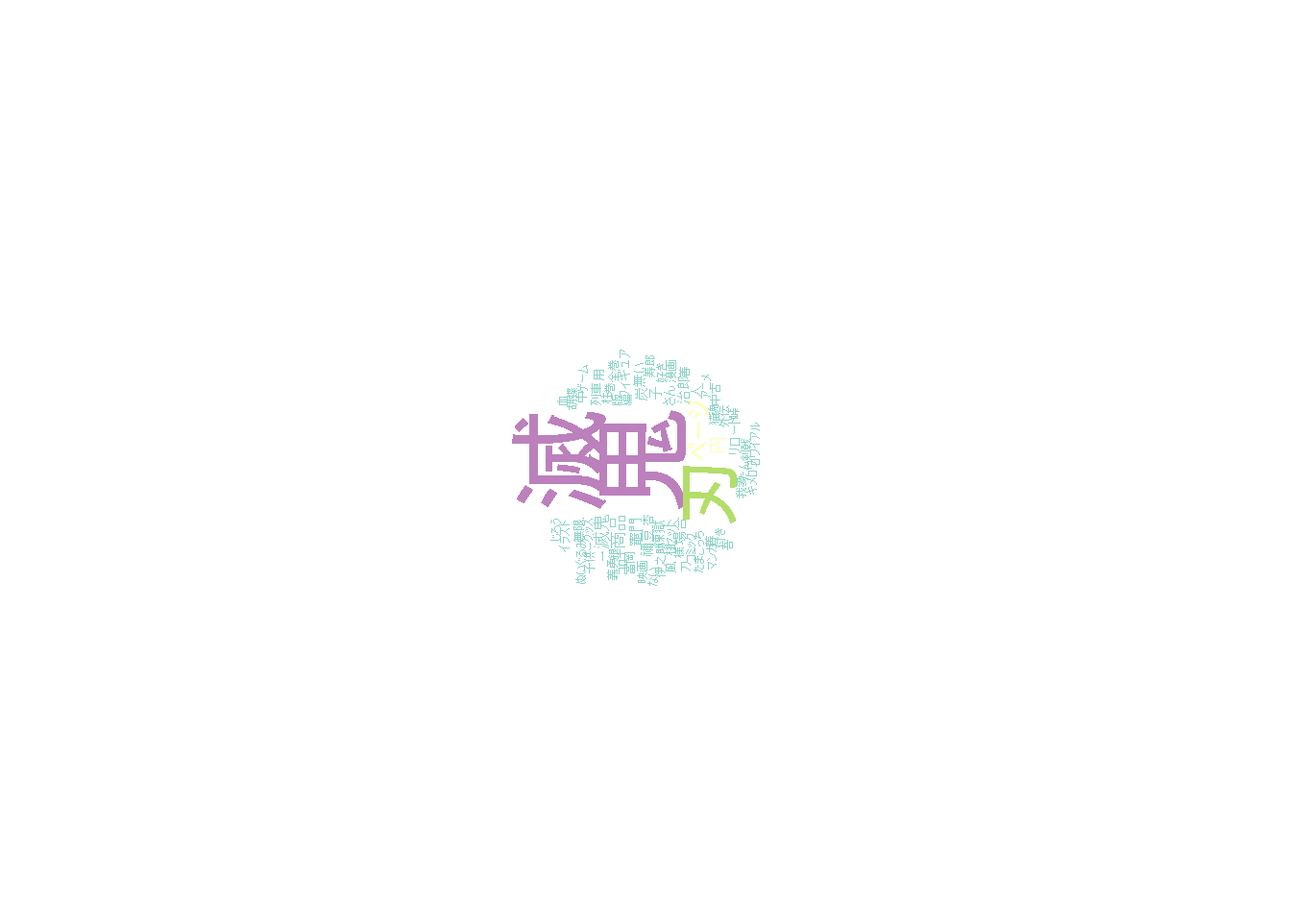
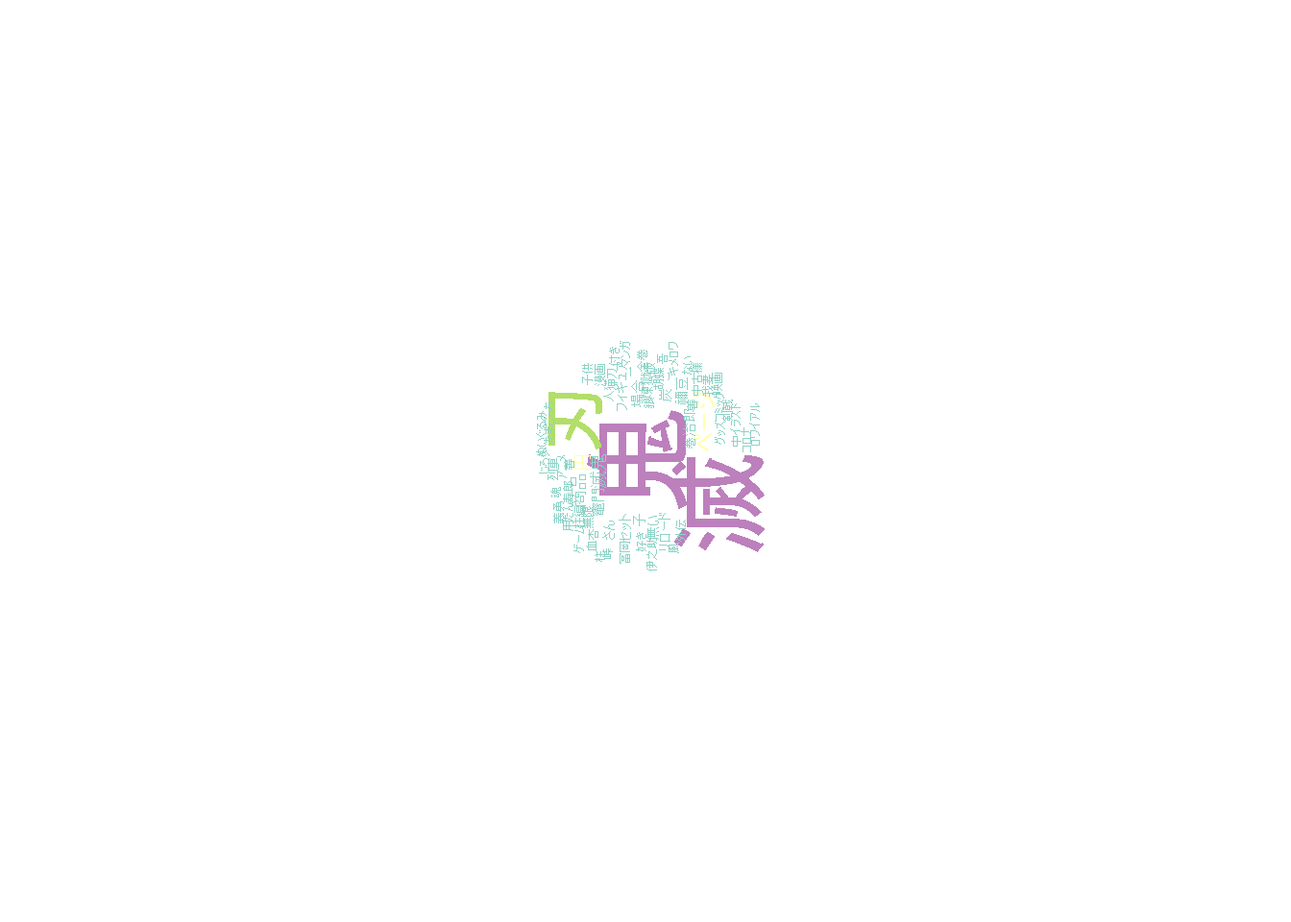
cash=TRUEに変更。dependson = TRUEのオプションも追加。

Changed region(s): [[0.4062, 0.375, 0.5938, 0.625]]

diff --git a/public/post/only-wordcloud/index.html b/public/post/only-wordcloud/index.html
@@ -18,7 +18,7 @@
 <meta itemprop="description" content="おはようございます！ 今日は、テキストデータを分析して、ワードクラウドなるものを作ろうと思います！ 本当は、Twittterからテキストデータを">
 <meta itemprop="datePublished" content="2021-01-10T00:00:00+00:00" />
 <meta itemprop="dateModified" content="2021-01-10T00:00:00+00:00" />
-<meta itemprop="wordCount" content="105239">
+<meta itemprop="wordCount" content="105263">
 
 
 
@@ -192,12 +192,22 @@ wordcloud2(data = df, size = 1, color = &quot;random-light&quot;)</code></pre>
 <div id="htmlwidget-1" style="width:672px;height:480px;" class="wordcloud2 html-widget"></div>
 <script type="application/json" data-for="htmlwidget-1">{"x":{"word":["ページ","円","商品","滅鬼","竈門","さん","子","禰豆","炭","治郎","煉獄","セット","無い","場合","リロード","フィギュア","外伝","アニメ","巻","好き","人","グッズ","列車","中","中古","無限","編","寿郎","杏","胡蝶","猫","イラスト","ー","コミック","版","一","銀","伊之助","魂","全巻","冨岡","映画","義勇","漫画","風","用","ゲーム","たまごっち","我妻","善","刀","血","じろう","たん","コロナ","善","ぬいぐるみ","ない","剣戟","柱","柱","キメロワ","マンガ","ロワイアル","吾","子供","峠","付き","様","くじ","公式","雑貨","良い","しのぶ","ちゃん","品","これ","呼","世","川","隊","不死","かわいい","ステンドグラスカードパック","友達","たち","カナ","館","黒","梱","笑","声","日輪","平","便","弥","嘴","さ","伊","求","券","好き","手","晴","番","そう","カード","キメロワ","シリーズ","マスク","済み","送料","大阪","暮らし","いい","こ","花","巻","通常","無料","面白い","ぷり","インテリア","エア","キャラ","コラボ","フォロワー","ホッケー","玄","譲","人気","製","地域","刀剣","日本","ねこ","ケース","スケール","スコティッシュフォールドアクアリウム","ニャルソック","バッチ","ビオトープ","気軽","栗","繋がり","月","個","今","私","小","少年","情報","新品","水槽","早め","特典","熱帯魚","悲鳴","万","癒","うち","す","エンスカイピースジグソーパズル","キャラクターズブック","コミュニティ","ピカジェルシュプリームギフト","下記","可","花落","楽天","劇場","月間","市","時","写真","者","沼","刀","年月","柄","本誌","無償","嶼行","カレンダー","キーホルダー","クオリティ","トップクラス","マスコット","炎","可能","絵","絵描き","缶","座","時間","呪術","神社","声優","先生","相互","誰","東京","難しい","入り","買取","不可","福岡","無惨","猗窩","２","ＴＶ","あなた","お年玉","っ子","なん","アマゾン","キモ","パズドラ","リカ","壱","炎","化","何","甘露","関西","気","月日","県","寺","主婦","収入","賞","的","点","二","日","芭内","飯塚","福袋","い","ら","アクリル","カラー","キッズ","パジャマ","ピアノ","一番","俺","画像","回","皆様","学期","顔","義勇","公","荒野","高","今日","再販","最終","三","三宮","首輪","女子大","上弦","信玄","全部","大好き","彼女","方","本日","蜜","目","お金","くん","こちら","れん","ジグソーパズル","ジャンプコミックス","チー","チョコ","バッジ","ビジネステレビスマホ","ピース","ブーム","ポップ","マシュマロ","マスクコロナミロアマゾン","メガハウス","一郎","可動","楽","完","緊急","型","経済","健康","鍵盤","抗菌","事態","種","初心者","人","性","政治","正規","息子","他","単品","弾","弾","中旬","蝶","天元","電卓","透","費","副業","文房具","毛布","璃","絆","あと","あみ","おば","がけ","すごい","そこ","のり","ぽい","みつ","やつ","キャラクター","コップ","コレクション","サイズ","ジャンプカミオジャパン","スティック","スト","ネット","バンダイ","ピアノクロスプレゼント","ピカジェルパルスオキシメータギフト","フォルダー","ブログ","ペン","ボールペン","ポイント","マグカップ","ヤマハ","ラン","悪い","位","衣装","嘘","下着","価格","夏樹","家","架空","霞","廻","絵","格安","楽譜","活性","観","玩","記事","権利","糊","江","浩","今年","祭","錆","山梨","氏","詳細","森岡","人物","水","世界","凄い","姓氏","正月","戦","祖師谷","台","著","町","店","電子","兎","動き","動画","肉","不思議","舞台","分","本","名字","恋","和","話","蟲柱","・","ー","１","４","あす","えん","お前","ぎゅぎゅっと","ご飯","すぎ","つき","とつ","どこ","のぶこ","はん","まめ","まんが","めちゃくちゃ","ゃいば","やばい","アカウント","アク","イージケース","ウェルビーイング","エクストラ","エンゲージメント","オリジナル","カーペット","ガチャガチャ","ガム","ガラスケース","キャッチャー","クリスマス","グッズケーススクエアガラスケース","グルマンディーズ","コス","コチラ","コピ","サンライズ","シーズン","シール","スクエア","スタンプ","ソロス","タイトル","タオル","タケ","タトゥー","デスク","ドール","バッグ","ビーズ","ファイル","プペル","ベージュ","ベスト","ペン","ポーチ","ポケット","マット","ミニ","ラスト","ラッピング","ランキング","ランダム","レ","レイヤー","ワクワクエンゲージメント","ワッペン","ワン","ワンオンワンチーム","以降","偉い","一族","宇髄","羽織","縁","沖縄","価値","可愛い","画集","漢字","嬉しい","幾星霜","期","鬼取","巨人","興","曲","巾着","金額","熊本","軍団","兄弟","景品","原作","現在","幸せ","香り","今回","最近","最後","最高","最初","細かい","作品","三浦","山","次郎","自己","自分","七","手作り","手段","収","秋葉原","集英社","春","女の子","招福","笑顔","障害","食","食","食堂","慎重","神様","人材","人事","世代","性格","晴","生駒","聖地","節分","雪だるま","絶対","前","素晴らしい","装","対象","大学","大判","達","誕祭","男","着物","仲間","丁目","帳","塚","鉄","桃太郎","特製","年","馬","箱","箸","美しい","筆記用具","富岡","部","部屋","風","服","文庫","壁紙","放題","無残","娘","名刺","明","面","模様","目","弥生","矢沢","里","恋木","郎","話題","毀滅","綺麗","鐵","〇","ーコロナマルハン","３","６","あいつ","あし","あと","いっぱい","うまい","おじさん","おばさん","おもちゃ","お菓子","お正月","お茶","かん","がち","くい","こい","ここ","こっち","さつまいも","しあわせ","すか","ぜん","その他","たくさん","だれ","ちゃん","っぽい","つり","つる","でっかい","とんぼ","ねむたい","はる","ひも","ぷ","まいこ","みんな","め","めい","もち","ゆらぎ","ょうしのぶきめつのやいば","ょうじゅろう","よい","よそ","アート","アオイ","アキバホビーフィギュアプライズ","アナ","アナスイコラボ","アナログ","イエロー","イケメン","ウエハース","オタ","オリ","カス","カトラリー","カナエ","カフェ","キレイ","クラ","クラスターキャンペーン","グッズアニメバッグタイプ","グッズミニショルダーバッグ","グループ","グルマンディーズバンダイ","グルメ","ケシ","コースター","コーデ","コスプレグッズラテックスマスク","コピック","コメダ","コラ","コロ","ザファイナル","シューズ","シュリンク","ショルダー","ジョージ","スイ","スター","スタイリング","スタンダード","スラムダンク","スラムダンク","セ","セール","ダメ","チェキフジフイルム","チケット","チャンス","ツイート","テレビ","データ","ディフォルメシールウエハース","デコステッカーガム","デジタル","デフォルメ","トランプ","トレーディング","トレンド","ニュース","ネタ","ノート","ハーフハーフケット","ハンコ","ハンター","バランス","パイオニア","パジャマセットトートバッグ","パズル","パネル","パワハラ","ヒノカミ","ビーフ","ファン","フラワー","ブック","ブルー","プレ","ホント","ボール","ポケモン","ポシェット","ポスト","ポッケ","マグカップ・","マスクイノシシコスプレ","マスコットキャラクター","マン","ミニリングノート","メイン","メディア","メンバー","モン","モンスターハンターワールド","ラガマフィン","ラバー","レイ","レビューアニプレックス","ロースト","ワイ","ワックス","ワンピース","Д","о","悪鬼","綾","以前","位","医療","井岡","一気","引鬼","永久","猿之助","鉛筆","横","億","屋敷","音","下","下旬","下野","家","家庭","課題","我々","牙","回","皆さん","絵かき","鎧","楽しい","掛","完全","感","感じ","感情","観","顔","季節","輝","亀治郎","吃音","久しぶり","休み","去年","虚無","興味","玉","九州","苦手","空知","郡山","兄","蛍","結果","剣道","後","向け","好評","昂","鋼","高校","号外","黒板","込み","今更","魂","歳","細胞","作","昨日","冊","三浦春馬松坂桃李宮地真緒吉岡里帆白石麻衣山田涼介","残り","子ども","市松","死","紙工","時","次","次","式","蛇","手芸","種","趣味","出身","春日部","女性","小池","小道具","少ない","少女","松山","消し","消しゴム","焼肉","症","詳しい","賞","上","場面","譲り","新型","新大阪","新聞","森川","真菰","人様","水田","性別","石田","戦い","素顔","想い","早い","側","其","村","袋","隊","代目","大きい","大切","大幅","卓上","男の子","地","猪","朝","調子","痛み","定価","敵","天満宮","店","伝説","電車","奴","刀鍛冶","島","湯のみ","当たり","藤","豆","同僚","特","内","内山","弐","匂い","日","日めくり","日向","入れ","熱","年","年金","年末","年末年始","納豆","波","派","派手","被り物","美味しい","筆箱","不潔","布","怖い","武","服","福","物","物","文","別","変","保育園","北海道","北斗","磨","妹","枚","毎日","毎日新聞","未読","無限","無双","名","問題","友","幼稚園","欲しい","卵","裏側","立木","流れ","鱗","礼儀","礼節","零","歴史","烈火","連休","狼","枠","枠","ﾟ","ﾟﾟ","簪","絆創膏","譚","1","e","x","％","７","ぁぁ","ぁぁぁ","ぁふなちゃんがぽんぽんしたん","あたり","あて","あら","あら","あらし","あん","いかが","いっしょ","いつか","うそ","うち","ぇもんと","ぉ","ぉるめ","おしゃれ","おでこ","おと","おもろい","お下げ","お家","お父さん","かぎ","かじ","かっこいい","かね","かま","かまぼこ","かも","かるた","がま口","きのこ","きょう","きり","ぎゆしのは","くら","こども","ごろ","ご存知","ご覧","さま","さんま","しっぽ","しら","しん","じゅう","すそ","すべて","そ","そこら","そちら","その後","それ","たい","たかい","たけ","ただ","たま","ちゃ","ちゃめ","ちょう","ちょこ","つながり","つま","つまんない","つよい","つらい","てこ","てぶくろ","でかい","とも","とんでも","どちら","どっち","どれ","なお","ならでは","なるい","ぬい","はし","ばん","ぱしゃこれ","ぱたぱた","ぱぴくとの","ひざ掛け","ひとり","ひろい","びちょびちょになった","ぴえん","ふく","ぷちざぶ","ぷよぷよ","ぷよぷよにれんごくさん","ぷりすとぷり","ほうび","ほんと","まき","まばら","むずかしい","むつ","めん","もろ","ゃないなっしか","やりがい","ゅう","ゅごい","ゆう","ょうじゅろうきめつのやいば","ょうじろうぬいぐるみ","よっぽど","よわい","りえ","りか","りんご","ろ","ろう","わけ","わたし","ア","アイツ","アイテム","アイフォンアイフォンカバー","アイフォンカバー","アイマス","アイマスク","アイロン","アオリサーチ","アカ","アキバホビーフィギュア","アクア","アクア","アクアビーズ","アクアビーズ","アクセサリー","アクリルキーホルダーコレクション","アクリルキーホルダーストラップキーチャーム","アクリルフィギュアコレクション","アツ","アナログコピック","アニ","アニメーション","アプリ","アプリ","アプリゲーム","アンケート","イケボエロボ","イチロー","イメージアクセ","イメージコーデ","ウイルス","エーペックスレジェンズ","エピ","エフトイズコンフェクト","エポック社","エマ","エロ","エヴァ","エヴァ","オックスプリント","オディ","オフ","オフィシャル","オフライン","オレ","オレンジ","オンナ","オンライン","カードチョコスナック","カップリング","カツオ","カナヲエクストラ","カパ","カフェオレ","カプセルラバーマスコット","カラオケ","カラコン","カラコンコメダ","カラス","カレー","ガチ","ガラス","ガン","キー","キッズ","キッズムービー","キッズモデル","キツネ","キバ","キメツノヤイバ","キャスト","キャラクターコレクションギフトプレゼントサンライズ","キャラクターパズルアニメパターン","キャラタッチグローブ","キャンディグミシール","キュー","キューブ","キューポス","キューポスケット","キュンキュン","キルティング","キング","ギフトバレンタイン","クーポン","クイズ","クチャ","クッション","クラスターキャンペーン","クリエイター","クリップ","クルトガ","クレーン","クレクレクレクレ","クレクレパズドラ","グッズケースカバー","グッズチョコアソート","グッズデスクマット","グッズペンマスコット","グリーン","グリグラ","グルマンディーズ","ケーススクエアガラスケース","ゲーセン","ゲームクリエイターパズドラパズドラ","ゲトー","コ","コー","コードギアス","コーナー","コインケース","コスプレ","コスプレコスプレ","コスメポーチ","コットン","コネクター","コマ","コマコレマグネットコレクション","コミックス","コミックス","コミュニケーション","コラボシート","コラボメニュー","コレクションフルコンプ","コレクターズカード","コント","コンプ","ゴールド","サーフ","サァ","サイト","サッカー","サッカーキメロワ","サナ","サビ","サンクス","サンプル","ザザ","シ","シキタリ","システム","シネマズ","シャープ","シャツ","シャツシャツトリニティ","シャモジ","シュプリーム","シュプリームアマゾン","ショウワノート","ショップ","ショルダーバッグ","ジェット","ジグソーパズルパネルフレーム","ジグソーパズルフレームピース","ジツエン","ジツエン","ジャージ","ジャケット","ジャパネット","ジャンプカミオジャパンギフト","ジャンプケイカンパニーウォーマー","ジャンプケイカンパニーティッシュケース","ジャンプフェスタグッズ","ジャンボ","ジン","スーパー","スイッチ・パブリッシング","スケジュール","スタ","スタッフ","ステ","ステーキ","ステイホーム","ステッカー","ストリーム","ストレート","ストロー","スパッ","スピーカー","スペシャル","スポーツカー","スポーツカーアクア","スマ","スマート","スマホ","スマホニュース","スライドシザー","スルー","セットフルコンプ","セットプライズキャッチャークレーンゲームレジャラン","セラフ","セリフ","ソニー","ソフト","ソフビィ","ソロ","タイ","タイム","タグ","タッチペンボールペン","ダークローズウッド","ダイニング","ダイレイ","ダブルチャンスキャンペーン","ダム","チェキ","チェキクリスマスプレゼント","チェンソーマン","チャット","チャラ","チャンネル","チョウチョ","チョモギヴン","ツイステ","ツイステクリアビジュアルポスター","ツイステハニプレ","ツイッター","ツイフィ","ツイン","テール","テンション","テンプ","デカ","デコプチカード","デザイングラフアートデザインクリアボトル","トーク","トコアクリルキーホルダー","トコアクリルキーホルダーカラビナベルハウス","トップ","トピア","トレ","トレーニングマラソンランニング","ドンジャラ","ナムコ","ニーアオートマタ","ネー","ネイルチップ","ネコポス","ネバーランド","ネバエヴァ","ノイタミナ","ノベライズ","ハイ","ハロウィン","ハンド","ハンドジェル","バイト","バイブレーションスターズ","バグ","バケツ","バス","バスケ","バッジ・ピンズ","バッジ・ピンズ","バナ","バラエティー","バレ","バンダナ","パーカー","パープルネコポス","パジャキャラ","パック","パッケージ","パロディ","パロディー","ヒーター","ヒーローキッズ","ヒトカゲ・パチリス","ヒロ","ヒロアカクリアカード","ヒロアカコラボ","ビーズアンドパーツアクセサリーパーツ","ビジュアル","ビナ","ピアス","ピン","ファイナル","ファッ","ファッション","ファッションデザイナー","ファニーナイツ","フォトナ","フォン","フラグ","フリュー","フリュー","フレ","フレーム","フロー","フロア","ブザー","ブチ","ブルーヘアワックス","ブロマイド","ブロンズ","プチラマシリーズ","プライズ","プラカップクリアコップタンブラー","プレスト","プレミア","プレミアム","プロ","プロジェクト","プロローグ","ヘア","ヘッド","ベース","ベテラン","ペ","ペンシャープペンボールペン","ホ","ボーカル","ボイス","ボイトレ","ポーチペンケース","ポーチペンシルケース","ポケモン","マウス","マウスパッドパソコン","マウスマウスパッドキーボードパッド","マキア","マスクコスメポーチ","マスクコロナミロ","マスクポーチフラットポーチ","マスクマスクケース","マトリョーシカピンポイント","マナー","マニア","マニアック","マフラー","ママ","マルチクリアケースサイズ","マンダロリアン","ミナ","ミナサナグッズ","ミニストップ","ミニポケットティシュ","ミラー","ムズ","メイド","メガ","メガネ","メタル","メンタル","モデル","モノクロームマグ","モバイル","モヤモヤ","モンスター","ヤバ","ユニット","ユル","ヨナテニプリ","ラーメン","ライダー","ライティング","ライビュ","ライブドアブロガー","ライブビューイング","ライン","ラジオ","ラスカル","ラバ","ラブホ","ランダムスマホリング","ランチ","リーダー","リツイート","リバーシブル","リプ","リベンジ","ルームペンケース","ルシソロ","レイ","レイヤーコスプレ","レジングリーン","レッスン","レッド","ローソン","ローランド","ローン","ロドリゲス","ロバート","ロワイアルヒノカミ","ワイドサイズワイドデスクマット","ワイヤレス","ワイン","ヱヴァンゲリヲン","ヲ","ン","ヴァイオレット・エヴァーガーデン","愛","愛情","愛知","綾","暗い","闇","偉大","易い","異種","違","医者","井上","育","一昨日","一瞬","一品","一郎黒死牟鬼滅","逸","稲毛","印象","引","引き","右","宇随","宇髄","宇副","影","影山","瑛","英","駅","駅前","円滑","円筒","甥","岡","屋","穏便","音","音楽","下","下手人","下敷き","何事","夏","科学","暇","果て","歌","歌","歌舞伎","花江","華","課長","過去","我","画","画伯","画面","画用紙","会","会","会社","回戦","皆んな","絵柄","外","外側","概念","概要","街","各種","確か","角度","楽器","額縁","梶浦","割","活気","滑り","寒い","幹","感想","環境","甘い","緩い","含","玩鬼","眼科","岩","危ない","器","期","機","機器","気温","気持ち","祈り","鬼頭","鬼舞","宜しい","急","居合","京","強い","恐い","教室","橋本","興味深い","鏡","暁","業","均","禁書","筋","近い","近く","金","金箔","区","喰霊","空","君","啓子","型","形","形","形式","系","系","繋","警察","軽量","芸術","撃","傑作","穴","結局","結末","件","兼","嫌","嫌い","嫌い","肩","肩書き","見やすい","見応え","見所","元","元","元気","原著","幻","現時点","現象","現代","現地","個々","個人","古い","孤独","五","午前","後半","御意","交通","光","光","光学","効果","広島","溝口","紅蓮","紘","考え","行","行","行住坐臥","鋼","香","高田","号","合","豪","豪華","国","黒髪","獄","腰","今中","今朝","痕","左近","最強","妻","彩","彩","歳","祭り","罪","財布","坂田","堺","作り","作者","昨年","札","雑巾","雑誌","捌","三角","三昧","山","山地","残酷","仕込み","仕様","使い捨て","使い手","使い方","四六時中","士","姉妹","子安","子猫","子役","市民","支配人","止め","止観","死","紫","試し斬り","誌上","事務所","慈","慈悲","持ち","時代","時分","次第","磁氏","自我","自画","自動","自由","失意","室","漆黒","実況","実力","写","写し絵","社会","社長","社内","車","車","邪魔","主","主人","主人公","主題歌","取り","取り分","守り","手","手押し","手袋","手描き","手法","手縫い","珠代","種類","寿司","周り","周年","周辺","秋","秋田","臭","週間","住まい","住宅","銃","出会い","出来事","術","瞬間","瞬時","旬","初回","初版","書","小","小学校","小学生","小声","小説","小物","小躍り","松岡","消防","粧鬼","衝撃","上靴","上手","上手い","上履き","丞","場所","情","情景","状況","職場","色","色","色々","色紙","心","心強い","心当たり","新しい","新規","新春","森","真相","神楽","神崎","親","親子","身内","針","人口","人出","人類","刃物","水","水彩","水柱","水筒","髄","数","数","杉田","世の中","世界一","世間","勢い","正確","正念場","正面","生業","生焼け","生態","生地","生徒","盛り上がり","声帯","青い","青島文化教材社","青年","税込","責任","切り","切り替え","折りたたみ","雪","絶頂","絶品","先","先","千葉","洗","線","羨ましい","前金","前半","全て","全集","組み合わせ","爽やか","相槌","総集編","草","霜月","騒","像","即刻","続き","多い","多数","太田","太陽","駄菓子","体","体","帯","替え","代","台詞","大型","大人","大正","大雪","大統領","大変","第一声","題材","滝","卓","択","誰か","短髪","団","男女","値段","知らず","知事","知識","知能","地","地区","地元","地道","地雷","智和","置","蜘蛛","筑豊","中央","中学校","中野","昼","柱","丁度","帖","朝","朝日","朝日新聞","町","調","長","鳥山","鳥瞰図","直球","直接","椎名","痛","通り","辻","釣り","釣り","低音","底","弟","禎","典","天","天ぷら","天井","天才","展","店舗","添","伝","殿","電磁","塗","都民","度","土","冬物","当方","等身","藤原","透明","陶器","頭","童","道しるべ","特別","毒","毒舌","読み","凸","奈良","内容","弐譲","弐童","虹","日銀","日本一","日本刀","日野","熱い","熱意","熱風","年賀","年月日","乃箱","能力","脳","波","杯","背","背景","買い上げ","売場","爆血","爆豪","箱","肇","肌色","八","発","半額","半天","半纏","繁華","番組","彼","彼岸花","悲しい","悲しみ","皮革","非行","非情","美事","美女","美少女","髭","膝","百","百合子","瓢箪","表紙","表情","秒","品薄","不在","不自由","不動産","不要","付","普通","負けず嫌い","部門","風柄","伏線","幅","福島","複雑","淵","物語","文化","文具","平和","柄","壁","別名","片羽","片手","片足","片目","編","編者","辺り","便","弁","弁当","保健","母","方法","砲","縫い","豊か","忙しい","棒","僕","墨絵","本筋","本体","本当","麻の葉","毎回","毎日","槙","満生","密","眠り","無駄","無表情","無銘","牟","名前","名店","明け","明日","迷子","迷惑","面倒","木","木製","木村","目処","目的","目当て","目録","餅","門","夜","夜中","野菜","矢島","薬","薬","柳生","優しい","有名","由紀","遊郭","雄","雄彦","余裕","幼少","妖艶","容量","様々","陽性","羅","来年","雷","落花","理由","璃鬼","率","立体","流派","亮","両方","両目","良平","領域","力","力","緑","瑠火","涙","累","類","鈴村","列伝","烈","連","朗報","六","六連","録","和装","和風","和服","嶼","ｰ","ｶﾀｶﾀ","ﾉ","ﾌｨ","ﾌﾋﾋ","ﾟ","ﾟｶﾞｸｶﾞｸﾌﾞﾙﾌﾞﾙ","竈","艸","袢天","霹靂","魘夢","鴉"],"freq":[286,215,152,145,81,79,79,79,77,75,71,70,66,65,64,60,50,44,44,44,44,43,43,41,41,41,39,37,36,36,35,34,33,33,33,32,32,31,31,31,31,30,30,30,29,29,27,26,26,26,26,24,23,23,23,23,22,21,21,21,21,20,20,20,20,20,20,20,20,19,19,19,19,18,18,18,17,17,17,17,17,17,16,16,16,15,15,15,15,15,15,15,15,15,15,15,15,14,14,14,14,14,14,14,14,13,13,13,13,13,13,13,13,13,12,12,12,12,12,12,12,11,11,11,11,11,11,11,11,11,11,11,11,11,11,10,10,10,10,10,10,10,10,10,10,10,10,10,10,10,10,10,10,10,10,10,10,10,10,10,9,9,9,9,9,9,9,9,9,9,9,9,9,9,9,9,9,9,9,9,9,9,9,8,8,8,8,8,8,8,8,8,8,8,8,8,8,8,8,8,8,8,8,8,8,8,8,8,8,7,7,7,7,7,7,7,7,7,7,7,7,7,7,7,7,7,7,7,7,7,7,7,7,7,7,7,7,7,7,6,6,6,6,6,6,6,6,6,6,6,6,6,6,6,6,6,6,6,6,6,6,6,6,6,6,6,6,6,6,6,6,6,6,5,5,5,5,5,5,5,5,5,5,5,5,5,5,5,5,5,5,5,5,5,5,5,5,5,5,5,5,5,5,5,5,5,5,5,5,5,5,5,5,5,5,5,5,5,5,5,5,5,4,4,4,4,4,4,4,4,4,4,4,4,4,4,4,4,4,4,4,4,4,4,4,4,4,4,4,4,4,4,4,4,4,4,4,4,4,4,4,4,4,4,4,4,4,4,4,4,4,4,4,4,4,4,4,4,4,4,4,4,4,4,4,4,4,4,4,4,4,4,4,4,4,4,4,4,4,4,4,4,4,4,4,4,3,3,3,3,3,3,3,3,3,3,3,3,3,3,3,3,3,3,3,3,3,3,3,3,3,3,3,3,3,3,3,3,3,3,3,3,3,3,3,3,3,3,3,3,3,3,3,3,3,3,3,3,3,3,3,3,3,3,3,3,3,3,3,3,3,3,3,3,3,3,3,3,3,3,3,3,3,3,3,3,3,3,3,3,3,3,3,3,3,3,3,3,3,3,3,3,3,3,3,3,3,3,3,3,3,3,3,3,3,3,3,3,3,3,3,3,3,3,3,3,3,3,3,3,3,3,3,3,3,3,3,3,3,3,3,3,3,3,3,3,3,3,3,3,3,3,3,3,3,3,3,3,3,3,3,3,3,3,3,3,3,3,3,3,3,3,3,3,3,3,3,3,3,3,3,3,3,3,3,3,3,3,3,3,2,2,2,2,2,2,2,2,2,2,2,2,2,2,2,2,2,2,2,2,2,2,2,2,2,2,2,2,2,2,2,2,2,2,2,2,2,2,2,2,2,2,2,2,2,2,2,2,2,2,2,2,2,2,2,2,2,2,2,2,2,2,2,2,2,2,2,2,2,2,2,2,2,2,2,2,2,2,2,2,2,2,2,2,2,2,2,2,2,2,2,2,2,2,2,2,2,2,2,2,2,2,2,2,2,2,2,2,2,2,2,2,2,2,2,2,2,2,2,2,2,2,2,2,2,2,2,2,2,2,2,2,2,2,2,2,2,2,2,2,2,2,2,2,2,2,2,2,2,2,2,2,2,2,2,2,2,2,2,2,2,2,2,2,2,2,2,2,2,2,2,2,2,2,2,2,2,2,2,2,2,2,2,2,2,2,2,2,2,2,2,2,2,2,2,2,2,2,2,2,2,2,2,2,2,2,2,2,2,2,2,2,2,2,2,2,2,2,2,2,2,2,2,2,2,2,2,2,2,2,2,2,2,2,2,2,2,2,2,2,2,2,2,2,2,2,2,2,2,2,2,2,2,2,2,2,2,2,2,2,2,2,2,2,2,2,2,2,2,2,2,2,2,2,2,2,2,2,2,2,2,2,2,2,2,2,2,2,2,2,2,2,2,2,2,2,2,2,2,2,2,2,2,2,2,2,2,2,2,2,2,2,2,2,2,2,2,2,2,2,2,2,2,2,2,2,2,2,2,2,2,2,2,2,2,2,2,2,2,2,2,2,2,2,2,2,2,2,2,2,2,2,2,2,2,2,2,2,2,2,2,1,1,1,1,1,1,1,1,1,1,1,1,1,1,1,1,1,1,1,1,1,1,1,1,1,1,1,1,1,1,1,1,1,1,1,1,1,1,1,1,1,1,1,1,1,1,1,1,1,1,1,1,1,1,1,1,1,1,1,1,1,1,1,1,1,1,1,1,1,1,1,1,1,1,1,1,1,1,1,1,1,1,1,1,1,1,1,1,1,1,1,1,1,1,1,1,1,1,1,1,1,1,1,1,1,1,1,1,1,1,1,1,1,1,1,1,1,1,1,1,1,1,1,1,1,1,1,1,1,1,1,1,1,1,1,1,1,1,1,1,1,1,1,1,1,1,1,1,1,1,1,1,1,1,1,1,1,1,1,1,1,1,1,1,1,1,1,1,1,1,1,1,1,1,1,1,1,1,1,1,1,1,1,1,1,1,1,1,1,1,1,1,1,1,1,1,1,1,1,1,1,1,1,1,1,1,1,1,1,1,1,1,1,1,1,1,1,1,1,1,1,1,1,1,1,1,1,1,1,1,1,1,1,1,1,1,1,1,1,1,1,1,1,1,1,1,1,1,1,1,1,1,1,1,1,1,1,1,1,1,1,1,1,1,1,1,1,1,1,1,1,1,1,1,1,1,1,1,1,1,1,1,1,1,1,1,1,1,1,1,1,1,1,1,1,1,1,1,1,1,1,1,1,1,1,1,1,1,1,1,1,1,1,1,1,1,1,1,1,1,1,1,1,1,1,1,1,1,1,1,1,1,1,1,1,1,1,1,1,1,1,1,1,1,1,1,1,1,1,1,1,1,1,1,1,1,1,1,1,1,1,1,1,1,1,1,1,1,1,1,1,1,1,1,1,1,1,1,1,1,1,1,1,1,1,1,1,1,1,1,1,1,1,1,1,1,1,1,1,1,1,1,1,1,1,1,1,1,1,1,1,1,1,1,1,1,1,1,1,1,1,1,1,1,1,1,1,1,1,1,1,1,1,1,1,1,1,1,1,1,1,1,1,1,1,1,1,1,1,1,1,1,1,1,1,1,1,1,1,1,1,1,1,1,1,1,1,1,1,1,1,1,1,1,1,1,1,1,1,1,1,1,1,1,1,1,1,1,1,1,1,1,1,1,1,1,1,1,1,1,1,1,1,1,1,1,1,1,1,1,1,1,1,1,1,1,1,1,1,1,1,1,1,1,1,1,1,1,1,1,1,1,1,1,1,1,1,1,1,1,1,1,1,1,1,1,1,1,1,1,1,1,1,1,1,1,1,1,1,1,1,1,1,1,1,1,1,1,1,1,1,1,1,1,1,1,1,1,1,1,1,1,1,1,1,1,1,1,1,1,1,1,1,1,1,1,1,1,1,1,1,1,1,1,1,1,1,1,1,1,1,1,1,1,1,1,1,1,1,1,1,1,1,1,1,1,1,1,1,1,1,1,1,1,1,1,1,1,1,1,1,1,1,1,1,1,1,1,1,1,1,1,1,1,1,1,1,1,1,1,1,1,1,1,1,1,1,1,1,1,1,1,1,1,1,1,1,1,1,1,1,1,1,1,1,1,1,1,1,1,1,1,1,1,1,1,1,1,1,1,1,1,1,1,1,1,1,1,1,1,1,1,1,1,1,1,1,1,1,1,1,1,1,1,1,1,1,1,1,1,1,1,1,1,1,1,1,1,1,1,1,1,1,1,1,1,1,1,1,1,1,1,1,1,1,1,1,1,1,1,1,1,1,1,1,1,1,1,1,1,1,1,1,1,1,1,1,1,1,1,1,1,1,1,1,1,1,1,1,1,1,1,1,1,1,1,1,1,1,1,1,1,1,1,1,1,1,1,1,1,1,1,1,1,1,1,1,1,1,1,1,1,1,1,1,1,1,1,1,1,1,1,1,1,1,1,1,1,1,1,1,1,1,1,1,1,1,1,1,1,1,1,1,1,1,1,1,1,1,1,1,1,1,1,1,1,1,1,1,1,1,1,1,1,1,1,1,1,1,1,1,1,1,1,1,1,1,1,1,1,1,1,1,1,1,1,1,1,1,1,1,1,1,1,1,1,1,1,1,1,1,1,1,1,1,1,1,1,1,1,1,1,1,1,1,1,1,1,1,1,1,1,1,1,1,1,1,1,1,1,1,1,1,1,1,1,1,1,1,1,1,1,1,1,1,1,1,1,1,1,1,1,1,1,1,1,1,1,1,1,1,1,1,1,1,1,1,1,1,1,1,1,1,1,1,1,1,1,1,1,1,1,1,1,1,1,1,1,1,1,1,1,1,1,1,1,1,1,1,1,1,1,1,1,1,1,1,1,1,1,1,1,1,1,1,1,1,1,1,1,1,1,1,1,1,1,1,1,1,1,1,1,1,1,1,1,1,1,1,1,1,1,1,1,1,1,1,1,1,1,1,1,1,1,1,1,1,1,1,1,1,1,1,1,1,1,1,1,1,1,1,1,1,1,1,1,1,1,1,1,1,1,1,1,1,1,1,1,1,1,1,1,1,1,1,1,1,1,1,1,1,1,1,1,1,1,1,1,1,1,1,1,1,1,1,1,1,1,1,1,1,1,1,1,1,1,1,1,1,1,1,1,1,1,1,1,1,1,1,1,1,1,1,1,1,1,1,1,1,1,1,1,1,1,1,1,1,1,1,1,1,1,1,1,1,1,1,1,1,1,1,1,1,1,1,1,1,1,1,1,1,1,1],"fontFamily":"Segoe UI","fontWeight":"bold","color":"random-light","minSize":0,"weightFactor":0.629370629370629,"backgroundColor":"white","gridSize":0,"minRotation":-0.785398163397448,"maxRotation":0.785398163397448,"shuffle":true,"rotateRatio":0.4,"shape":"circle","ellipticity":0.65,"figBase64":null,"hover":null},"evals":[],"jsHooks":{"render":[{"code":"function(el,x){\n                        console.log(123);\n                        if(!iii){\n                          window.location.reload();\n                          iii = False;\n\n                        }\n  }","data":null}]}}</script>
 <p>もう一つ。</p>
-<pre class="r"><code>wordcloud2(data = df, size = 1, color = &quot;random-dark&quot;, 
+<pre class="r"><code>df &lt;- docDF_text2 %&gt;% 
+  arrange(desc(freq)) %&gt;% 
+  filter(freq &lt; 1000) %&gt;% 
+  select(word, freq)
+
+wordcloud2(data = df, size = 1, color = &quot;random-dark&quot;, 
            shuffle = FALSE, shape = &#39;circle&#39;) </code></pre>
 <div id="htmlwidget-2" style="width:672px;height:480px;" class="wordcloud2 html-widget"></div>
 <script type="application/json" data-for="htmlwidget-2">{"x":{"word":["ページ","円","商品","滅鬼","竈門","さん","子","禰豆","炭","治郎","煉獄","セット","無い","場合","リロード","フィギュア","外伝","アニメ","巻","好き","人","グッズ","列車","中","中古","無限","編","寿郎","杏","胡蝶","猫","イラスト","ー","コミック","版","一","銀","伊之助","魂","全巻","冨岡","映画","義勇","漫画","風","用","ゲーム","たまごっち","我妻","善","刀","血","じろう","たん","コロナ","善","ぬいぐるみ","ない","剣戟","柱","柱","キメロワ","マンガ","ロワイアル","吾","子供","峠","付き","様","くじ","公式","雑貨","良い","しのぶ","ちゃん","品","これ","呼","世","川","隊","不死","かわいい","ステンドグラスカードパック","友達","たち","カナ","館","黒","梱","笑","声","日輪","平","便","弥","嘴","さ","伊","求","券","好き","手","晴","番","そう","カード","キメロワ","シリーズ","マスク","済み","送料","大阪","暮らし","いい","こ","花","巻","通常","無料","面白い","ぷり","インテリア","エア","キャラ","コラボ","フォロワー","ホッケー","玄","譲","人気","製","地域","刀剣","日本","ねこ","ケース","スケール","スコティッシュフォールドアクアリウム","ニャルソック","バッチ","ビオトープ","気軽","栗","繋がり","月","個","今","私","小","少年","情報","新品","水槽","早め","特典","熱帯魚","悲鳴","万","癒","うち","す","エンスカイピースジグソーパズル","キャラクターズブック","コミュニティ","ピカジェルシュプリームギフト","下記","可","花落","楽天","劇場","月間","市","時","写真","者","沼","刀","年月","柄","本誌","無償","嶼行","カレンダー","キーホルダー","クオリティ","トップクラス","マスコット","炎","可能","絵","絵描き","缶","座","時間","呪術","神社","声優","先生","相互","誰","東京","難しい","入り","買取","不可","福岡","無惨","猗窩","２","ＴＶ","あなた","お年玉","っ子","なん","アマゾン","キモ","パズドラ","リカ","壱","炎","化","何","甘露","関西","気","月日","県","寺","主婦","収入","賞","的","点","二","日","芭内","飯塚","福袋","い","ら","アクリル","カラー","キッズ","パジャマ","ピアノ","一番","俺","画像","回","皆様","学期","顔","義勇","公","荒野","高","今日","再販","最終","三","三宮","首輪","女子大","上弦","信玄","全部","大好き","彼女","方","本日","蜜","目","お金","くん","こちら","れん","ジグソーパズル","ジャンプコミックス","チー","チョコ","バッジ","ビジネステレビスマホ","ピース","ブーム","ポップ","マシュマロ","マスクコロナミロアマゾン","メガハウス","一郎","可動","楽","完","緊急","型","経済","健康","鍵盤","抗菌","事態","種","初心者","人","性","政治","正規","息子","他","単品","弾","弾","中旬","蝶","天元","電卓","透","費","副業","文房具","毛布","璃","絆","あと","あみ","おば","がけ","すごい","そこ","のり","ぽい","みつ","やつ","キャラクター","コップ","コレクション","サイズ","ジャンプカミオジャパン","スティック","スト","ネット","バンダイ","ピアノクロスプレゼント","ピカジェルパルスオキシメータギフト","フォルダー","ブログ","ペン","ボールペン","ポイント","マグカップ","ヤマハ","ラン","悪い","位","衣装","嘘","下着","価格","夏樹","家","架空","霞","廻","絵","格安","楽譜","活性","観","玩","記事","権利","糊","江","浩","今年","祭","錆","山梨","氏","詳細","森岡","人物","水","世界","凄い","姓氏","正月","戦","祖師谷","台","著","町","店","電子","兎","動き","動画","肉","不思議","舞台","分","本","名字","恋","和","話","蟲柱","・","ー","１","４","あす","えん","お前","ぎゅぎゅっと","ご飯","すぎ","つき","とつ","どこ","のぶこ","はん","まめ","まんが","めちゃくちゃ","ゃいば","やばい","アカウント","アク","イージケース","ウェルビーイング","エクストラ","エンゲージメント","オリジナル","カーペット","ガチャガチャ","ガム","ガラスケース","キャッチャー","クリスマス","グッズケーススクエアガラスケース","グルマンディーズ","コス","コチラ","コピ","サンライズ","シーズン","シール","スクエア","スタンプ","ソロス","タイトル","タオル","タケ","タトゥー","デスク","ドール","バッグ","ビーズ","ファイル","プペル","ベージュ","ベスト","ペン","ポーチ","ポケット","マット","ミニ","ラスト","ラッピング","ランキング","ランダム","レ","レイヤー","ワクワクエンゲージメント","ワッペン","ワン","ワンオンワンチーム","以降","偉い","一族","宇髄","羽織","縁","沖縄","価値","可愛い","画集","漢字","嬉しい","幾星霜","期","鬼取","巨人","興","曲","巾着","金額","熊本","軍団","兄弟","景品","原作","現在","幸せ","香り","今回","最近","最後","最高","最初","細かい","作品","三浦","山","次郎","自己","自分","七","手作り","手段","収","秋葉原","集英社","春","女の子","招福","笑顔","障害","食","食","食堂","慎重","神様","人材","人事","世代","性格","晴","生駒","聖地","節分","雪だるま","絶対","前","素晴らしい","装","対象","大学","大判","達","誕祭","男","着物","仲間","丁目","帳","塚","鉄","桃太郎","特製","年","馬","箱","箸","美しい","筆記用具","富岡","部","部屋","風","服","文庫","壁紙","放題","無残","娘","名刺","明","面","模様","目","弥生","矢沢","里","恋木","郎","話題","毀滅","綺麗","鐵","〇","ーコロナマルハン","３","６","あいつ","あし","あと","いっぱい","うまい","おじさん","おばさん","おもちゃ","お菓子","お正月","お茶","かん","がち","くい","こい","ここ","こっち","さつまいも","しあわせ","すか","ぜん","その他","たくさん","だれ","ちゃん","っぽい","つり","つる","でっかい","とんぼ","ねむたい","はる","ひも","ぷ","まいこ","みんな","め","めい","もち","ゆらぎ","ょうしのぶきめつのやいば","ょうじゅろう","よい","よそ","アート","アオイ","アキバホビーフィギュアプライズ","アナ","アナスイコラボ","アナログ","イエロー","イケメン","ウエハース","オタ","オリ","カス","カトラリー","カナエ","カフェ","キレイ","クラ","クラスターキャンペーン","グッズアニメバッグタイプ","グッズミニショルダーバッグ","グループ","グルマンディーズバンダイ","グルメ","ケシ","コースター","コーデ","コスプレグッズラテックスマスク","コピック","コメダ","コラ","コロ","ザファイナル","シューズ","シュリンク","ショルダー","ジョージ","スイ","スター","スタイリング","スタンダード","スラムダンク","スラムダンク","セ","セール","ダメ","チェキフジフイルム","チケット","チャンス","ツイート","テレビ","データ","ディフォルメシールウエハース","デコステッカーガム","デジタル","デフォルメ","トランプ","トレーディング","トレンド","ニュース","ネタ","ノート","ハーフハーフケット","ハンコ","ハンター","バランス","パイオニア","パジャマセットトートバッグ","パズル","パネル","パワハラ","ヒノカミ","ビーフ","ファン","フラワー","ブック","ブルー","プレ","ホント","ボール","ポケモン","ポシェット","ポスト","ポッケ","マグカップ・","マスクイノシシコスプレ","マスコットキャラクター","マン","ミニリングノート","メイン","メディア","メンバー","モン","モンスターハンターワールド","ラガマフィン","ラバー","レイ","レビューアニプレックス","ロースト","ワイ","ワックス","ワンピース","Д","о","悪鬼","綾","以前","位","医療","井岡","一気","引鬼","永久","猿之助","鉛筆","横","億","屋敷","音","下","下旬","下野","家","家庭","課題","我々","牙","回","皆さん","絵かき","鎧","楽しい","掛","完全","感","感じ","感情","観","顔","季節","輝","亀治郎","吃音","久しぶり","休み","去年","虚無","興味","玉","九州","苦手","空知","郡山","兄","蛍","結果","剣道","後","向け","好評","昂","鋼","高校","号外","黒板","込み","今更","魂","歳","細胞","作","昨日","冊","三浦春馬松坂桃李宮地真緒吉岡里帆白石麻衣山田涼介","残り","子ども","市松","死","紙工","時","次","次","式","蛇","手芸","種","趣味","出身","春日部","女性","小池","小道具","少ない","少女","松山","消し","消しゴム","焼肉","症","詳しい","賞","上","場面","譲り","新型","新大阪","新聞","森川","真菰","人様","水田","性別","石田","戦い","素顔","想い","早い","側","其","村","袋","隊","代目","大きい","大切","大幅","卓上","男の子","地","猪","朝","調子","痛み","定価","敵","天満宮","店","伝説","電車","奴","刀鍛冶","島","湯のみ","当たり","藤","豆","同僚","特","内","内山","弐","匂い","日","日めくり","日向","入れ","熱","年","年金","年末","年末年始","納豆","波","派","派手","被り物","美味しい","筆箱","不潔","布","怖い","武","服","福","物","物","文","別","変","保育園","北海道","北斗","磨","妹","枚","毎日","毎日新聞","未読","無限","無双","名","問題","友","幼稚園","欲しい","卵","裏側","立木","流れ","鱗","礼儀","礼節","零","歴史","烈火","連休","狼","枠","枠","ﾟ","ﾟﾟ","簪","絆創膏","譚","1","e","x","％","７","ぁぁ","ぁぁぁ","ぁふなちゃんがぽんぽんしたん","あたり","あて","あら","あら","あらし","あん","いかが","いっしょ","いつか","うそ","うち","ぇもんと","ぉ","ぉるめ","おしゃれ","おでこ","おと","おもろい","お下げ","お家","お父さん","かぎ","かじ","かっこいい","かね","かま","かまぼこ","かも","かるた","がま口","きのこ","きょう","きり","ぎゆしのは","くら","こども","ごろ","ご存知","ご覧","さま","さんま","しっぽ","しら","しん","じゅう","すそ","すべて","そ","そこら","そちら","その後","それ","たい","たかい","たけ","ただ","たま","ちゃ","ちゃめ","ちょう","ちょこ","つながり","つま","つまんない","つよい","つらい","てこ","てぶくろ","でかい","とも","とんでも","どちら","どっち","どれ","なお","ならでは","なるい","ぬい","はし","ばん","ぱしゃこれ","ぱたぱた","ぱぴくとの","ひざ掛け","ひとり","ひろい","びちょびちょになった","ぴえん","ふく","ぷちざぶ","ぷよぷよ","ぷよぷよにれんごくさん","ぷりすとぷり","ほうび","ほんと","まき","まばら","むずかしい","むつ","めん","もろ","ゃないなっしか","やりがい","ゅう","ゅごい","ゆう","ょうじゅろうきめつのやいば","ょうじろうぬいぐるみ","よっぽど","よわい","りえ","りか","りんご","ろ","ろう","わけ","わたし","ア","アイツ","アイテム","アイフォンアイフォンカバー","アイフォンカバー","アイマス","アイマスク","アイロン","アオリサーチ","アカ","アキバホビーフィギュア","アクア","アクア","アクアビーズ","アクアビーズ","アクセサリー","アクリルキーホルダーコレクション","アクリルキーホルダーストラップキーチャーム","アクリルフィギュアコレクション","アツ","アナログコピック","アニ","アニメーション","アプリ","アプリ","アプリゲーム","アンケート","イケボエロボ","イチロー","イメージアクセ","イメージコーデ","ウイルス","エーペックスレジェンズ","エピ","エフトイズコンフェクト","エポック社","エマ","エロ","エヴァ","エヴァ","オックスプリント","オディ","オフ","オフィシャル","オフライン","オレ","オレンジ","オンナ","オンライン","カードチョコスナック","カップリング","カツオ","カナヲエクストラ","カパ","カフェオレ","カプセルラバーマスコット","カラオケ","カラコン","カラコンコメダ","カラス","カレー","ガチ","ガラス","ガン","キー","キッズ","キッズムービー","キッズモデル","キツネ","キバ","キメツノヤイバ","キャスト","キャラクターコレクションギフトプレゼントサンライズ","キャラクターパズルアニメパターン","キャラタッチグローブ","キャンディグミシール","キュー","キューブ","キューポス","キューポスケット","キュンキュン","キルティング","キング","ギフトバレンタイン","クーポン","クイズ","クチャ","クッション","クラスターキャンペーン","クリエイター","クリップ","クルトガ","クレーン","クレクレクレクレ","クレクレパズドラ","グッズケースカバー","グッズチョコアソート","グッズデスクマット","グッズペンマスコット","グリーン","グリグラ","グルマンディーズ","ケーススクエアガラスケース","ゲーセン","ゲームクリエイターパズドラパズドラ","ゲトー","コ","コー","コードギアス","コーナー","コインケース","コスプレ","コスプレコスプレ","コスメポーチ","コットン","コネクター","コマ","コマコレマグネットコレクション","コミックス","コミックス","コミュニケーション","コラボシート","コラボメニュー","コレクションフルコンプ","コレクターズカード","コント","コンプ","ゴールド","サーフ","サァ","サイト","サッカー","サッカーキメロワ","サナ","サビ","サンクス","サンプル","ザザ","シ","シキタリ","システム","シネマズ","シャープ","シャツ","シャツシャツトリニティ","シャモジ","シュプリーム","シュプリームアマゾン","ショウワノート","ショップ","ショルダーバッグ","ジェット","ジグソーパズルパネルフレーム","ジグソーパズルフレームピース","ジツエン","ジツエン","ジャージ","ジャケット","ジャパネット","ジャンプカミオジャパンギフト","ジャンプケイカンパニーウォーマー","ジャンプケイカンパニーティッシュケース","ジャンプフェスタグッズ","ジャンボ","ジン","スーパー","スイッチ・パブリッシング","スケジュール","スタ","スタッフ","ステ","ステーキ","ステイホーム","ステッカー","ストリーム","ストレート","ストロー","スパッ","スピーカー","スペシャル","スポーツカー","スポーツカーアクア","スマ","スマート","スマホ","スマホニュース","スライドシザー","スルー","セットフルコンプ","セットプライズキャッチャークレーンゲームレジャラン","セラフ","セリフ","ソニー","ソフト","ソフビィ","ソロ","タイ","タイム","タグ","タッチペンボールペン","ダークローズウッド","ダイニング","ダイレイ","ダブルチャンスキャンペーン","ダム","チェキ","チェキクリスマスプレゼント","チェンソーマン","チャット","チャラ","チャンネル","チョウチョ","チョモギヴン","ツイステ","ツイステクリアビジュアルポスター","ツイステハニプレ","ツイッター","ツイフィ","ツイン","テール","テンション","テンプ","デカ","デコプチカード","デザイングラフアートデザインクリアボトル","トーク","トコアクリルキーホルダー","トコアクリルキーホルダーカラビナベルハウス","トップ","トピア","トレ","トレーニングマラソンランニング","ドンジャラ","ナムコ","ニーアオートマタ","ネー","ネイルチップ","ネコポス","ネバーランド","ネバエヴァ","ノイタミナ","ノベライズ","ハイ","ハロウィン","ハンド","ハンドジェル","バイト","バイブレーションスターズ","バグ","バケツ","バス","バスケ","バッジ・ピンズ","バッジ・ピンズ","バナ","バラエティー","バレ","バンダナ","パーカー","パープルネコポス","パジャキャラ","パック","パッケージ","パロディ","パロディー","ヒーター","ヒーローキッズ","ヒトカゲ・パチリス","ヒロ","ヒロアカクリアカード","ヒロアカコラボ","ビーズアンドパーツアクセサリーパーツ","ビジュアル","ビナ","ピアス","ピン","ファイナル","ファッ","ファッション","ファッションデザイナー","ファニーナイツ","フォトナ","フォン","フラグ","フリュー","フリュー","フレ","フレーム","フロー","フロア","ブザー","ブチ","ブルーヘアワックス","ブロマイド","ブロンズ","プチラマシリーズ","プライズ","プラカップクリアコップタンブラー","プレスト","プレミア","プレミアム","プロ","プロジェクト","プロローグ","ヘア","ヘッド","ベース","ベテラン","ペ","ペンシャープペンボールペン","ホ","ボーカル","ボイス","ボイトレ","ポーチペンケース","ポーチペンシルケース","ポケモン","マウス","マウスパッドパソコン","マウスマウスパッドキーボードパッド","マキア","マスクコスメポーチ","マスクコロナミロ","マスクポーチフラットポーチ","マスクマスクケース","マトリョーシカピンポイント","マナー","マニア","マニアック","マフラー","ママ","マルチクリアケースサイズ","マンダロリアン","ミナ","ミナサナグッズ","ミニストップ","ミニポケットティシュ","ミラー","ムズ","メイド","メガ","メガネ","メタル","メンタル","モデル","モノクロームマグ","モバイル","モヤモヤ","モンスター","ヤバ","ユニット","ユル","ヨナテニプリ","ラーメン","ライダー","ライティング","ライビュ","ライブドアブロガー","ライブビューイング","ライン","ラジオ","ラスカル","ラバ","ラブホ","ランダムスマホリング","ランチ","リーダー","リツイート","リバーシブル","リプ","リベンジ","ルームペンケース","ルシソロ","レイ","レイヤーコスプレ","レジングリーン","レッスン","レッド","ローソン","ローランド","ローン","ロドリゲス","ロバート","ロワイアルヒノカミ","ワイドサイズワイドデスクマット","ワイヤレス","ワイン","ヱヴァンゲリヲン","ヲ","ン","ヴァイオレット・エヴァーガーデン","愛","愛情","愛知","綾","暗い","闇","偉大","易い","異種","違","医者","井上","育","一昨日","一瞬","一品","一郎黒死牟鬼滅","逸","稲毛","印象","引","引き","右","宇随","宇髄","宇副","影","影山","瑛","英","駅","駅前","円滑","円筒","甥","岡","屋","穏便","音","音楽","下","下手人","下敷き","何事","夏","科学","暇","果て","歌","歌","歌舞伎","花江","華","課長","過去","我","画","画伯","画面","画用紙","会","会","会社","回戦","皆んな","絵柄","外","外側","概念","概要","街","各種","確か","角度","楽器","額縁","梶浦","割","活気","滑り","寒い","幹","感想","環境","甘い","緩い","含","玩鬼","眼科","岩","危ない","器","期","機","機器","気温","気持ち","祈り","鬼頭","鬼舞","宜しい","急","居合","京","強い","恐い","教室","橋本","興味深い","鏡","暁","業","均","禁書","筋","近い","近く","金","金箔","区","喰霊","空","君","啓子","型","形","形","形式","系","系","繋","警察","軽量","芸術","撃","傑作","穴","結局","結末","件","兼","嫌","嫌い","嫌い","肩","肩書き","見やすい","見応え","見所","元","元","元気","原著","幻","現時点","現象","現代","現地","個々","個人","古い","孤独","五","午前","後半","御意","交通","光","光","光学","効果","広島","溝口","紅蓮","紘","考え","行","行","行住坐臥","鋼","香","高田","号","合","豪","豪華","国","黒髪","獄","腰","今中","今朝","痕","左近","最強","妻","彩","彩","歳","祭り","罪","財布","坂田","堺","作り","作者","昨年","札","雑巾","雑誌","捌","三角","三昧","山","山地","残酷","仕込み","仕様","使い捨て","使い手","使い方","四六時中","士","姉妹","子安","子猫","子役","市民","支配人","止め","止観","死","紫","試し斬り","誌上","事務所","慈","慈悲","持ち","時代","時分","次第","磁氏","自我","自画","自動","自由","失意","室","漆黒","実況","実力","写","写し絵","社会","社長","社内","車","車","邪魔","主","主人","主人公","主題歌","取り","取り分","守り","手","手押し","手袋","手描き","手法","手縫い","珠代","種類","寿司","周り","周年","周辺","秋","秋田","臭","週間","住まい","住宅","銃","出会い","出来事","術","瞬間","瞬時","旬","初回","初版","書","小","小学校","小学生","小声","小説","小物","小躍り","松岡","消防","粧鬼","衝撃","上靴","上手","上手い","上履き","丞","場所","情","情景","状況","職場","色","色","色々","色紙","心","心強い","心当たり","新しい","新規","新春","森","真相","神楽","神崎","親","親子","身内","針","人口","人出","人類","刃物","水","水彩","水柱","水筒","髄","数","数","杉田","世の中","世界一","世間","勢い","正確","正念場","正面","生業","生焼け","生態","生地","生徒","盛り上がり","声帯","青い","青島文化教材社","青年","税込","責任","切り","切り替え","折りたたみ","雪","絶頂","絶品","先","先","千葉","洗","線","羨ましい","前金","前半","全て","全集","組み合わせ","爽やか","相槌","総集編","草","霜月","騒","像","即刻","続き","多い","多数","太田","太陽","駄菓子","体","体","帯","替え","代","台詞","大型","大人","大正","大雪","大統領","大変","第一声","題材","滝","卓","択","誰か","短髪","団","男女","値段","知らず","知事","知識","知能","地","地区","地元","地道","地雷","智和","置","蜘蛛","筑豊","中央","中学校","中野","昼","柱","丁度","帖","朝","朝日","朝日新聞","町","調","長","鳥山","鳥瞰図","直球","直接","椎名","痛","通り","辻","釣り","釣り","低音","底","弟","禎","典","天","天ぷら","天井","天才","展","店舗","添","伝","殿","電磁","塗","都民","度","土","冬物","当方","等身","藤原","透明","陶器","頭","童","道しるべ","特別","毒","毒舌","読み","凸","奈良","内容","弐譲","弐童","虹","日銀","日本一","日本刀","日野","熱い","熱意","熱風","年賀","年月日","乃箱","能力","脳","波","杯","背","背景","買い上げ","売場","爆血","爆豪","箱","肇","肌色","八","発","半額","半天","半纏","繁華","番組","彼","彼岸花","悲しい","悲しみ","皮革","非行","非情","美事","美女","美少女","髭","膝","百","百合子","瓢箪","表紙","表情","秒","品薄","不在","不自由","不動産","不要","付","普通","負けず嫌い","部門","風柄","伏線","幅","福島","複雑","淵","物語","文化","文具","平和","柄","壁","別名","片羽","片手","片足","片目","編","編者","辺り","便","弁","弁当","保健","母","方法","砲","縫い","豊か","忙しい","棒","僕","墨絵","本筋","本体","本当","麻の葉","毎回","毎日","槙","満生","密","眠り","無駄","無表情","無銘","牟","名前","名店","明け","明日","迷子","迷惑","面倒","木","木製","木村","目処","目的","目当て","目録","餅","門","夜","夜中","野菜","矢島","薬","薬","柳生","優しい","有名","由紀","遊郭","雄","雄彦","余裕","幼少","妖艶","容量","様々","陽性","羅","来年","雷","落花","理由","璃鬼","率","立体","流派","亮","両方","両目","良平","領域","力","力","緑","瑠火","涙","累","類","鈴村","列伝","烈","連","朗報","六","六連","録","和装","和風","和服","嶼","ｰ","ｶﾀｶﾀ","ﾉ","ﾌｨ","ﾌﾋﾋ","ﾟ","ﾟｶﾞｸｶﾞｸﾌﾞﾙﾌﾞﾙ","竈","艸","袢天","霹靂","魘夢","鴉"],"freq":[286,215,152,145,81,79,79,79,77,75,71,70,66,65,64,60,50,44,44,44,44,43,43,41,41,41,39,37,36,36,35,34,33,33,33,32,32,31,31,31,31,30,30,30,29,29,27,26,26,26,26,24,23,23,23,23,22,21,21,21,21,20,20,20,20,20,20,20,20,19,19,19,19,18,18,18,17,17,17,17,17,17,16,16,16,15,15,15,15,15,15,15,15,15,15,15,15,14,14,14,14,14,14,14,14,13,13,13,13,13,13,13,13,13,12,12,12,12,12,12,12,11,11,11,11,11,11,11,11,11,11,11,11,11,11,10,10,10,10,10,10,10,10,10,10,10,10,10,10,10,10,10,10,10,10,10,10,10,10,10,9,9,9,9,9,9,9,9,9,9,9,9,9,9,9,9,9,9,9,9,9,9,9,8,8,8,8,8,8,8,8,8,8,8,8,8,8,8,8,8,8,8,8,8,8,8,8,8,8,7,7,7,7,7,7,7,7,7,7,7,7,7,7,7,7,7,7,7,7,7,7,7,7,7,7,7,7,7,7,6,6,6,6,6,6,6,6,6,6,6,6,6,6,6,6,6,6,6,6,6,6,6,6,6,6,6,6,6,6,6,6,6,6,5,5,5,5,5,5,5,5,5,5,5,5,5,5,5,5,5,5,5,5,5,5,5,5,5,5,5,5,5,5,5,5,5,5,5,5,5,5,5,5,5,5,5,5,5,5,5,5,5,4,4,4,4,4,4,4,4,4,4,4,4,4,4,4,4,4,4,4,4,4,4,4,4,4,4,4,4,4,4,4,4,4,4,4,4,4,4,4,4,4,4,4,4,4,4,4,4,4,4,4,4,4,4,4,4,4,4,4,4,4,4,4,4,4,4,4,4,4,4,4,4,4,4,4,4,4,4,4,4,4,4,4,4,3,3,3,3,3,3,3,3,3,3,3,3,3,3,3,3,3,3,3,3,3,3,3,3,3,3,3,3,3,3,3,3,3,3,3,3,3,3,3,3,3,3,3,3,3,3,3,3,3,3,3,3,3,3,3,3,3,3,3,3,3,3,3,3,3,3,3,3,3,3,3,3,3,3,3,3,3,3,3,3,3,3,3,3,3,3,3,3,3,3,3,3,3,3,3,3,3,3,3,3,3,3,3,3,3,3,3,3,3,3,3,3,3,3,3,3,3,3,3,3,3,3,3,3,3,3,3,3,3,3,3,3,3,3,3,3,3,3,3,3,3,3,3,3,3,3,3,3,3,3,3,3,3,3,3,3,3,3,3,3,3,3,3,3,3,3,3,3,3,3,3,3,3,3,3,3,3,3,3,3,3,3,3,3,2,2,2,2,2,2,2,2,2,2,2,2,2,2,2,2,2,2,2,2,2,2,2,2,2,2,2,2,2,2,2,2,2,2,2,2,2,2,2,2,2,2,2,2,2,2,2,2,2,2,2,2,2,2,2,2,2,2,2,2,2,2,2,2,2,2,2,2,2,2,2,2,2,2,2,2,2,2,2,2,2,2,2,2,2,2,2,2,2,2,2,2,2,2,2,2,2,2,2,2,2,2,2,2,2,2,2,2,2,2,2,2,2,2,2,2,2,2,2,2,2,2,2,2,2,2,2,2,2,2,2,2,2,2,2,2,2,2,2,2,2,2,2,2,2,2,2,2,2,2,2,2,2,2,2,2,2,2,2,2,2,2,2,2,2,2,2,2,2,2,2,2,2,2,2,2,2,2,2,2,2,2,2,2,2,2,2,2,2,2,2,2,2,2,2,2,2,2,2,2,2,2,2,2,2,2,2,2,2,2,2,2,2,2,2,2,2,2,2,2,2,2,2,2,2,2,2,2,2,2,2,2,2,2,2,2,2,2,2,2,2,2,2,2,2,2,2,2,2,2,2,2,2,2,2,2,2,2,2,2,2,2,2,2,2,2,2,2,2,2,2,2,2,2,2,2,2,2,2,2,2,2,2,2,2,2,2,2,2,2,2,2,2,2,2,2,2,2,2,2,2,2,2,2,2,2,2,2,2,2,2,2,2,2,2,2,2,2,2,2,2,2,2,2,2,2,2,2,2,2,2,2,2,2,2,2,2,2,2,2,2,2,2,2,2,2,2,2,2,2,2,2,2,2,2,2,2,2,2,2,2,1,1,1,1,1,1,1,1,1,1,1,1,1,1,1,1,1,1,1,1,1,1,1,1,1,1,1,1,1,1,1,1,1,1,1,1,1,1,1,1,1,1,1,1,1,1,1,1,1,1,1,1,1,1,1,1,1,1,1,1,1,1,1,1,1,1,1,1,1,1,1,1,1,1,1,1,1,1,1,1,1,1,1,1,1,1,1,1,1,1,1,1,1,1,1,1,1,1,1,1,1,1,1,1,1,1,1,1,1,1,1,1,1,1,1,1,1,1,1,1,1,1,1,1,1,1,1,1,1,1,1,1,1,1,1,1,1,1,1,1,1,1,1,1,1,1,1,1,1,1,1,1,1,1,1,1,1,1,1,1,1,1,1,1,1,1,1,1,1,1,1,1,1,1,1,1,1,1,1,1,1,1,1,1,1,1,1,1,1,1,1,1,1,1,1,1,1,1,1,1,1,1,1,1,1,1,1,1,1,1,1,1,1,1,1,1,1,1,1,1,1,1,1,1,1,1,1,1,1,1,1,1,1,1,1,1,1,1,1,1,1,1,1,1,1,1,1,1,1,1,1,1,1,1,1,1,1,1,1,1,1,1,1,1,1,1,1,1,1,1,1,1,1,1,1,1,1,1,1,1,1,1,1,1,1,1,1,1,1,1,1,1,1,1,1,1,1,1,1,1,1,1,1,1,1,1,1,1,1,1,1,1,1,1,1,1,1,1,1,1,1,1,1,1,1,1,1,1,1,1,1,1,1,1,1,1,1,1,1,1,1,1,1,1,1,1,1,1,1,1,1,1,1,1,1,1,1,1,1,1,1,1,1,1,1,1,1,1,1,1,1,1,1,1,1,1,1,1,1,1,1,1,1,1,1,1,1,1,1,1,1,1,1,1,1,1,1,1,1,1,1,1,1,1,1,1,1,1,1,1,1,1,1,1,1,1,1,1,1,1,1,1,1,1,1,1,1,1,1,1,1,1,1,1,1,1,1,1,1,1,1,1,1,1,1,1,1,1,1,1,1,1,1,1,1,1,1,1,1,1,1,1,1,1,1,1,1,1,1,1,1,1,1,1,1,1,1,1,1,1,1,1,1,1,1,1,1,1,1,1,1,1,1,1,1,1,1,1,1,1,1,1,1,1,1,1,1,1,1,1,1,1,1,1,1,1,1,1,1,1,1,1,1,1,1,1,1,1,1,1,1,1,1,1,1,1,1,1,1,1,1,1,1,1,1,1,1,1,1,1,1,1,1,1,1,1,1,1,1,1,1,1,1,1,1,1,1,1,1,1,1,1,1,1,1,1,1,1,1,1,1,1,1,1,1,1,1,1,1,1,1,1,1,1,1,1,1,1,1,1,1,1,1,1,1,1,1,1,1,1,1,1,1,1,1,1,1,1,1,1,1,1,1,1,1,1,1,1,1,1,1,1,1,1,1,1,1,1,1,1,1,1,1,1,1,1,1,1,1,1,1,1,1,1,1,1,1,1,1,1,1,1,1,1,1,1,1,1,1,1,1,1,1,1,1,1,1,1,1,1,1,1,1,1,1,1,1,1,1,1,1,1,1,1,1,1,1,1,1,1,1,1,1,1,1,1,1,1,1,1,1,1,1,1,1,1,1,1,1,1,1,1,1,1,1,1,1,1,1,1,1,1,1,1,1,1,1,1,1,1,1,1,1,1,1,1,1,1,1,1,1,1,1,1,1,1,1,1,1,1,1,1,1,1,1,1,1,1,1,1,1,1,1,1,1,1,1,1,1,1,1,1,1,1,1,1,1,1,1,1,1,1,1,1,1,1,1,1,1,1,1,1,1,1,1,1,1,1,1,1,1,1,1,1,1,1,1,1,1,1,1,1,1,1,1,1,1,1,1,1,1,1,1,1,1,1,1,1,1,1,1,1,1,1,1,1,1,1,1,1,1,1,1,1,1,1,1,1,1,1,1,1,1,1,1,1,1,1,1,1,1,1,1,1,1,1,1,1,1,1,1,1,1,1,1,1,1,1,1,1,1,1,1,1,1,1,1,1,1,1,1,1,1,1,1,1,1,1,1,1,1,1,1,1,1,1,1,1,1,1,1,1,1,1,1,1,1,1,1,1,1,1,1,1,1,1,1,1,1,1,1,1,1,1,1,1,1,1,1,1,1,1,1,1,1,1,1,1,1,1,1,1,1,1,1,1,1,1,1,1,1,1,1,1,1,1,1,1,1,1,1,1,1,1,1,1,1,1,1,1,1,1,1,1,1,1,1,1,1,1,1,1,1,1,1,1,1,1,1,1,1,1,1,1,1,1,1,1,1,1,1,1,1,1,1,1,1,1,1,1,1,1,1,1,1,1,1,1,1,1,1,1,1,1,1,1,1,1,1,1,1,1,1,1,1,1,1,1,1,1,1,1,1,1,1,1,1,1,1,1,1,1,1,1,1,1,1,1,1,1,1,1,1,1,1,1,1,1,1,1,1,1,1,1,1,1,1,1,1,1,1,1,1,1,1,1,1,1,1,1,1,1,1,1,1,1,1,1,1,1,1,1,1,1,1,1,1,1,1,1,1,1,1,1,1,1,1,1,1,1,1,1,1,1,1,1,1,1,1,1,1,1,1,1,1,1,1,1,1,1,1,1,1,1,1,1,1,1,1,1,1,1,1,1,1,1,1,1,1,1,1,1,1,1,1,1,1,1,1,1,1,1,1],"fontFamily":"Segoe UI","fontWeight":"bold","color":"random-dark","minSize":0,"weightFactor":0.629370629370629,"backgroundColor":"white","gridSize":0,"minRotation":-0.785398163397448,"maxRotation":0.785398163397448,"shuffle":false,"rotateRatio":0.4,"shape":"circle","ellipticity":0.65,"figBase64":null,"hover":null},"evals":[],"jsHooks":{"render":[{"code":"function(el,x){\n                        console.log(123);\n                        if(!iii){\n                          window.location.reload();\n                          iii = False;\n\n                        }\n  }","data":null}]}}</script>
 <p>さらにもう一つ。形等を変えることもできます。</p>
-<pre class="r"><code>wordcloud2(data = df, size = 1, 
+<pre class="r"><code>df &lt;- docDF_text2 %&gt;% 
+  arrange(desc(freq)) %&gt;% 
+  filter(freq &lt; 1000) %&gt;% 
+  select(word, freq)
+
+wordcloud2(data = df, size = 1, 
            minRotation = -pi/6, maxRotation = -pi/6,
            color = ifelse(df[,2] &gt; 100, &quot;red&quot;, &quot;skyblue&quot;),
            shuffle = FALSE, shape = &#39;pentagon&#39;) </code></pre>
